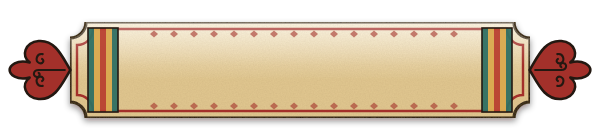
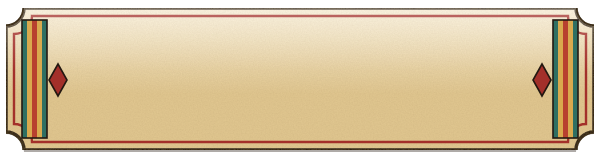
버튼 글자가 판 안에 들어가도록 버튼 그림과 크기 다시 맞춤
Claude-Session: https://claude.ai/code/session_01Lp1UwicLE2rXCQ34YHDuA6

diff --git a/public/css/app.css b/public/css/app.css
@@ -806,3 +806,15 @@ table.admin-table td, table.admin-table th { white-space: nowrap; }
   .ib-teacher { right: auto; left: 12%; }
 }
 .login-card .btn { min-height: 56px; }
+
+/* 버튼 글자가 판 안에 들어가도록: 그림 전체 = 버튼 크기, 가운데는 무늬 없는 글자 자리 */
+.btn { border-width: 12px 24px; border-image: var(--img) 36 70 fill / 12px 24px stretch; padding: 2px 14px; min-height: 54px; line-height: 1.25; white-space: nowrap; }
+.btn.small { min-height: 42px; border-width: 9px 18px; border-image-width: 9px 18px; padding: 1px 10px; font-size: .95rem; }
+.btn.big { min-height: 74px; border-width: 16px 32px; border-image-width: 16px 32px; padding: 2px 24px; font-size: 1.45rem; }
+.ib-eyebrow { border-width: 10px 22px; border-image: url(../assets/art/btn_hanji.png) 36 70 fill / 10px 22px stretch; padding: .1em .9em; }
+.ib-teacher { border-width: 8px 18px; border-image: url(../assets/art/btn_jade.png) 36 70 fill / 8px 18px stretch; padding: .1em .6em; }
+@media (max-width: 1000px), (max-aspect-ratio: 4/5) { .ib-eyebrow { border-width: 8px 18px; border-image-width: 8px 18px; padding: 0 .7em; } }
+@media (max-width: 900px) { .btn.small { border-width: 8px 16px; border-image-width: 8px 16px; } }
+@media (max-width: 560px) { .btn { white-space: normal; } }
+.side-tab { border-image-width: 12px 30px 12px 12px !important; border-width: 12px 30px 12px 12px !important; font-size: .93rem; padding: 0 4px 0 2px; word-break: keep-all; }
+@media (max-width: 900px) { .side-tab { border-width: 8px 22px 8px 8px !important; border-image-width: 8px 22px 8px 8px !important; white-space: nowrap; } }

diff --git a/art/ui_art.py b/art/ui_art.py
@@ -2,34 +2,30 @@
 from defs import *
 
 
-def plate(name, fill_top, fill_bot, line, deco, w=600, h=140, text_dark=False, pattern=True, band=True):
-    """명패 모양(오목하게 깎은 모서리) 판 + 양 끝 단청 띠 + 바깥을 향한 여의두. 가운데(150~450)는 늘려도 되는 영역"""
+def plate(name, fill_top, fill_bot, line, deco, w=600, h=160, text_dark=False, pattern=True, band=True):
+    """명패 모양 버튼: 그림 전체가 버튼 크기와 같고, 장식(단청 띠·여의두)은 양 끝 70px 안에만 있음.
+    가운데(70~530)는 무늬 없는 글자 자리 → 9칸 자르기: 위아래 36, 좌우 70"""
     uid = name
-    x0, x1, y0, y1, c = 70, w - 70, 22, h - 22, 16
+    x0, x1, y0, y1, c = 6, w - 6, 8, h - 10, 18
     shape = lambda i: (f"M{x0+c+i} {y0+i} H{x1-c-i} A{c} {c} 0 0 0 {x1-i} {y0+c+i} V{y1-c-i} A{c} {c} 0 0 0 {x1-c-i} {y1-i} "
                        f"H{x0+c+i} A{c} {c} 0 0 0 {x0+i} {y1-c-i} V{y0+c+i} A{c} {c} 0 0 0 {x0+c+i} {y0+i}Z")
-    pat = ''
-    if pattern:
-        for x in range(150, w - 140, 20):
-            pat += f'<path d="M{x} {y0+12} l4 -3.5 l4 3.5 l-4 3.5z" fill="{deco}" opacity=".6"/>'
-            pat += f'<path d="M{x} {y1-12} l4 -3.5 l4 3.5 l-4 3.5z" fill="{deco}" opacity=".6"/>'
-    bands = ''
-    if band:
-        for side in (0, 1):
-            bx = x0 + 18 if side == 0 else x1 - 18 - 30
-            cols = ['#2f6f62', GOLD, '#b8402f', GOLD, '#2f6f62'] if side == 0 else ['#2f6f62', GOLD, '#b8402f', GOLD, '#2f6f62']
-            for i, col in enumerate(cols):
-                bands += f'<rect x="{bx + i*6}" y="{y0+6}" width="6" height="{y1-y0-12}" fill="{col}" opacity=".95"/>'
-            bands += f'<rect x="{bx}" y="{y0+6}" width="30" height="{y1-y0-12}" fill="none" stroke="{INK}" stroke-width="1.6"/>'
+    ends = ''
+    for side in (0, 1):
+        if band:
+            bx = 22 if side == 0 else w - 22 - 25
+            for i, col in enumerate(['#2f6f62', GOLD, '#b8402f', GOLD, '#2f6f62']):
+                ends += f'<rect x="{bx + i*5}" y="{y0+12}" width="5" height="{y1-y0-24}" fill="{col}"/>'
+            ends += f'<rect x="{bx}" y="{y0+12}" width="25" height="{y1-y0-24}" fill="none" stroke="{INK}" stroke-width="1.6"/>'
+        cx = 58 if side == 0 else w - 58
+        ends += f'<path d="M{cx} {h/2-16} l9 16 l-9 16 l-9 -16z" fill="{deco}" stroke="{INK}" stroke-width="1.6"/>'
     body = f'''
   <linearGradient id="g{uid}" x1="0" y1="0" x2="0" y2="1"><stop offset="0" stop-color="{fill_top}"/><stop offset=".6" stop-color="{fill_bot}"/><stop offset="1" stop-color="{fill_bot}"/></linearGradient>
-  <linearGradient id="hl{uid}" x1="0" y1="0" x2="0" y2="1"><stop offset="0" stop-color="#fff" stop-opacity=".32"/><stop offset=".45" stop-color="#fff" stop-opacity="0"/></linearGradient>
-  <g filter="url(#shadow{uid})"><path d="{shape(0)}" fill="url(#g{uid})" stroke="{INK}" stroke-width="3.2" filter="url(#grain{uid})"/></g>
-  <path d="{shape(7)}" fill="none" stroke="{deco}" stroke-width="2.4"/>
+  <linearGradient id="hl{uid}" x1="0" y1="0" x2="0" y2="1"><stop offset="0" stop-color="#fff" stop-opacity=".28"/><stop offset=".45" stop-color="#fff" stop-opacity="0"/></linearGradient>
+  <path d="{shape(0)}" transform="translate(0 2)" fill="#1a0d06" opacity=".35"/>
+  <path d="{shape(0)}" fill="url(#g{uid})" stroke="{INK}" stroke-width="3.4" filter="url(#grain{uid})"/>
+  <path d="{shape(8)}" fill="none" stroke="{deco}" stroke-width="2.4"/>
   <path d="{shape(0)}" fill="url(#hl{uid})"/>
-  {pat}{bands}
-  {cloud_scroll(40, h/2, 30, deco, INK, 2.6)}
-  {cloud_scroll(w-40, h/2, 30, deco, INK, 2.6, flip=True)}
+  {ends}
 '''
     return svg(w, h, body, uid)
 
